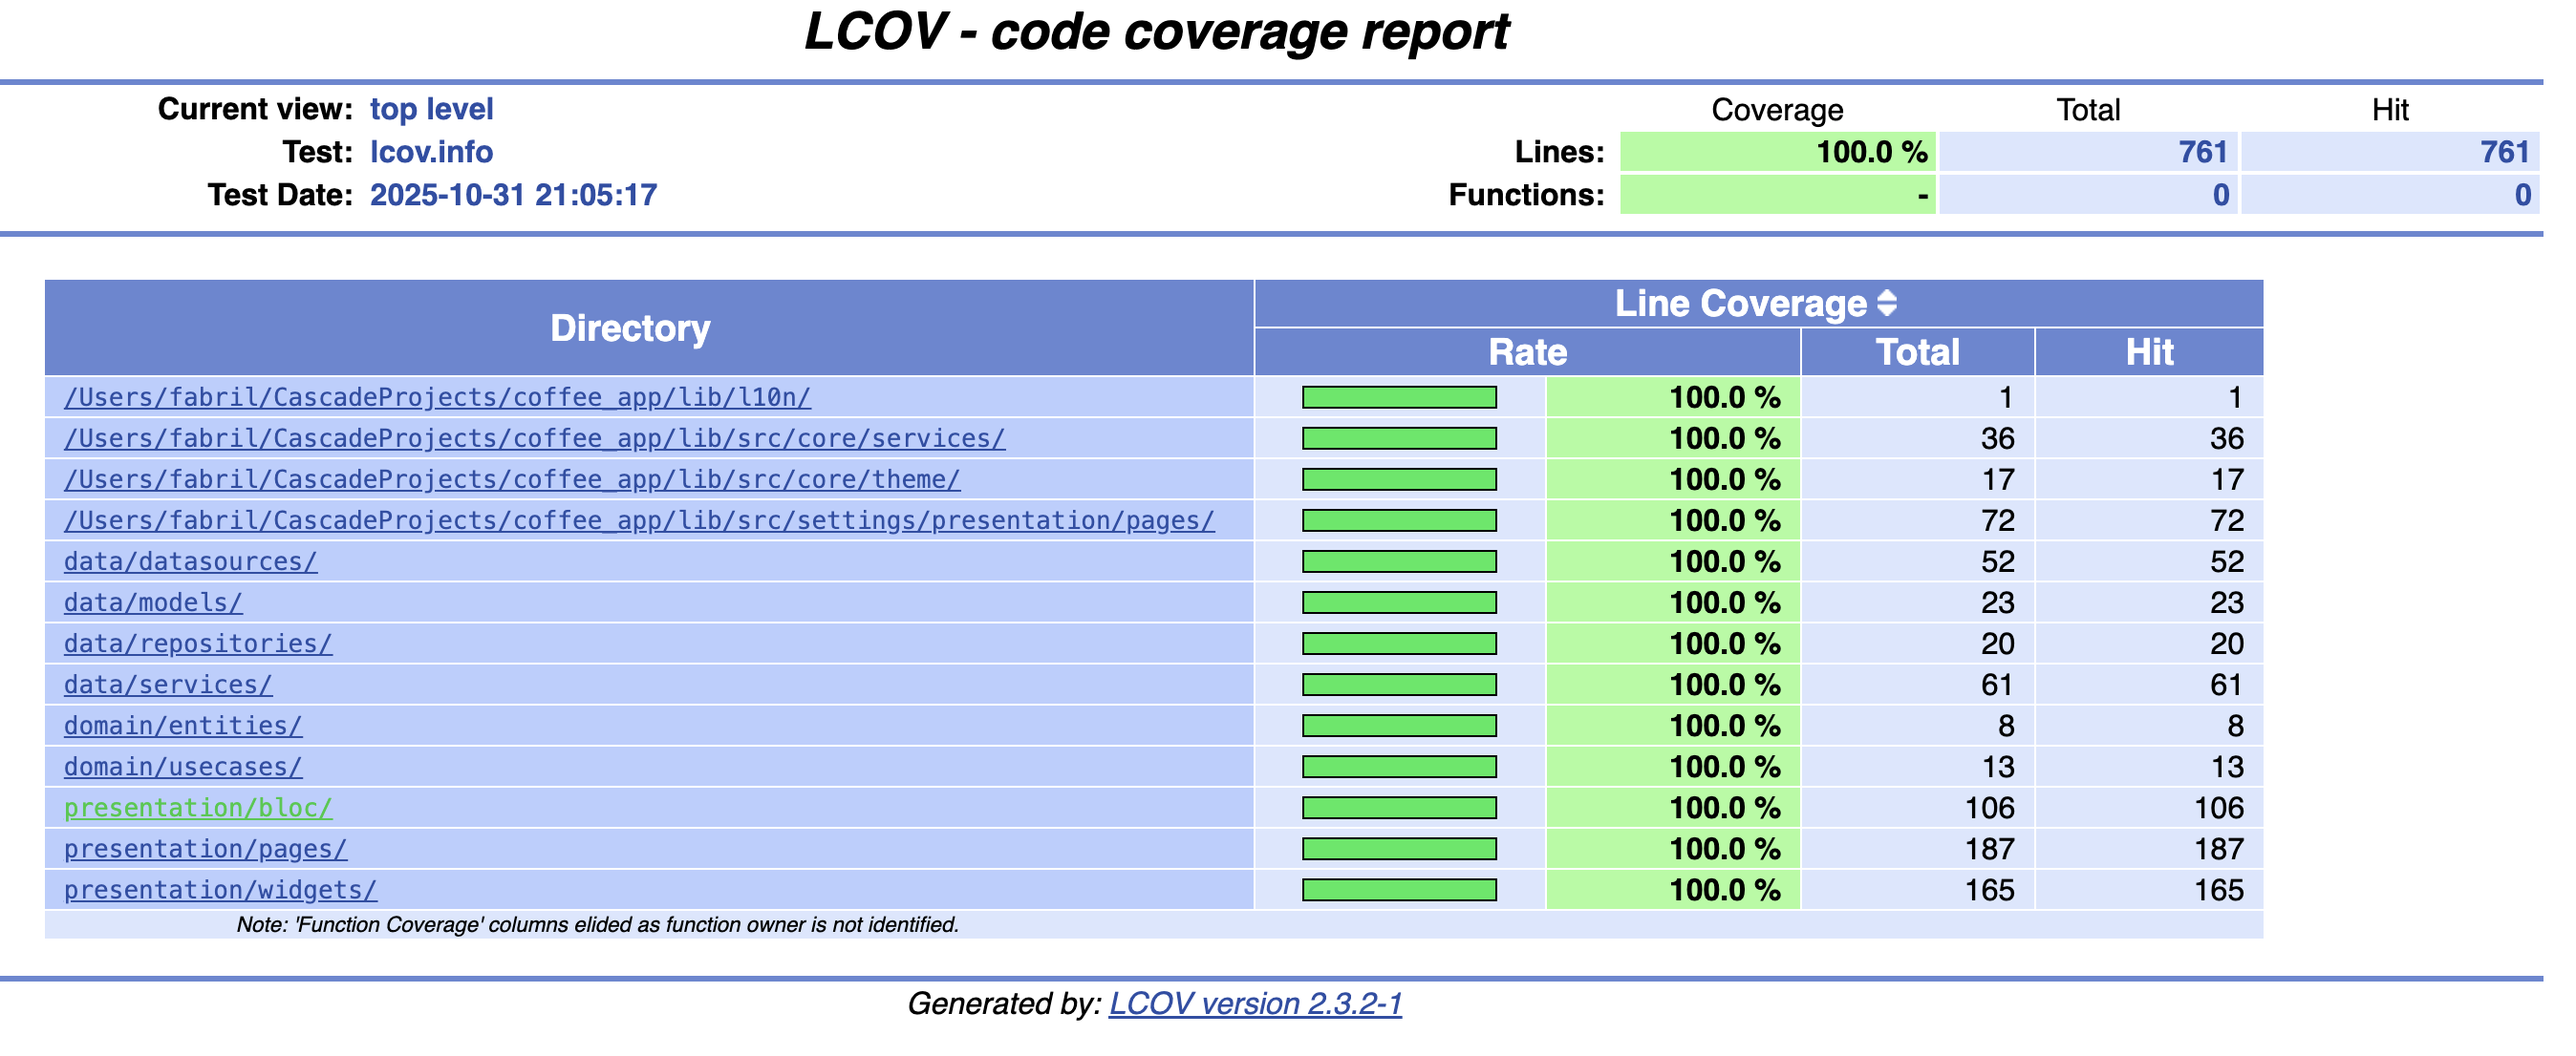
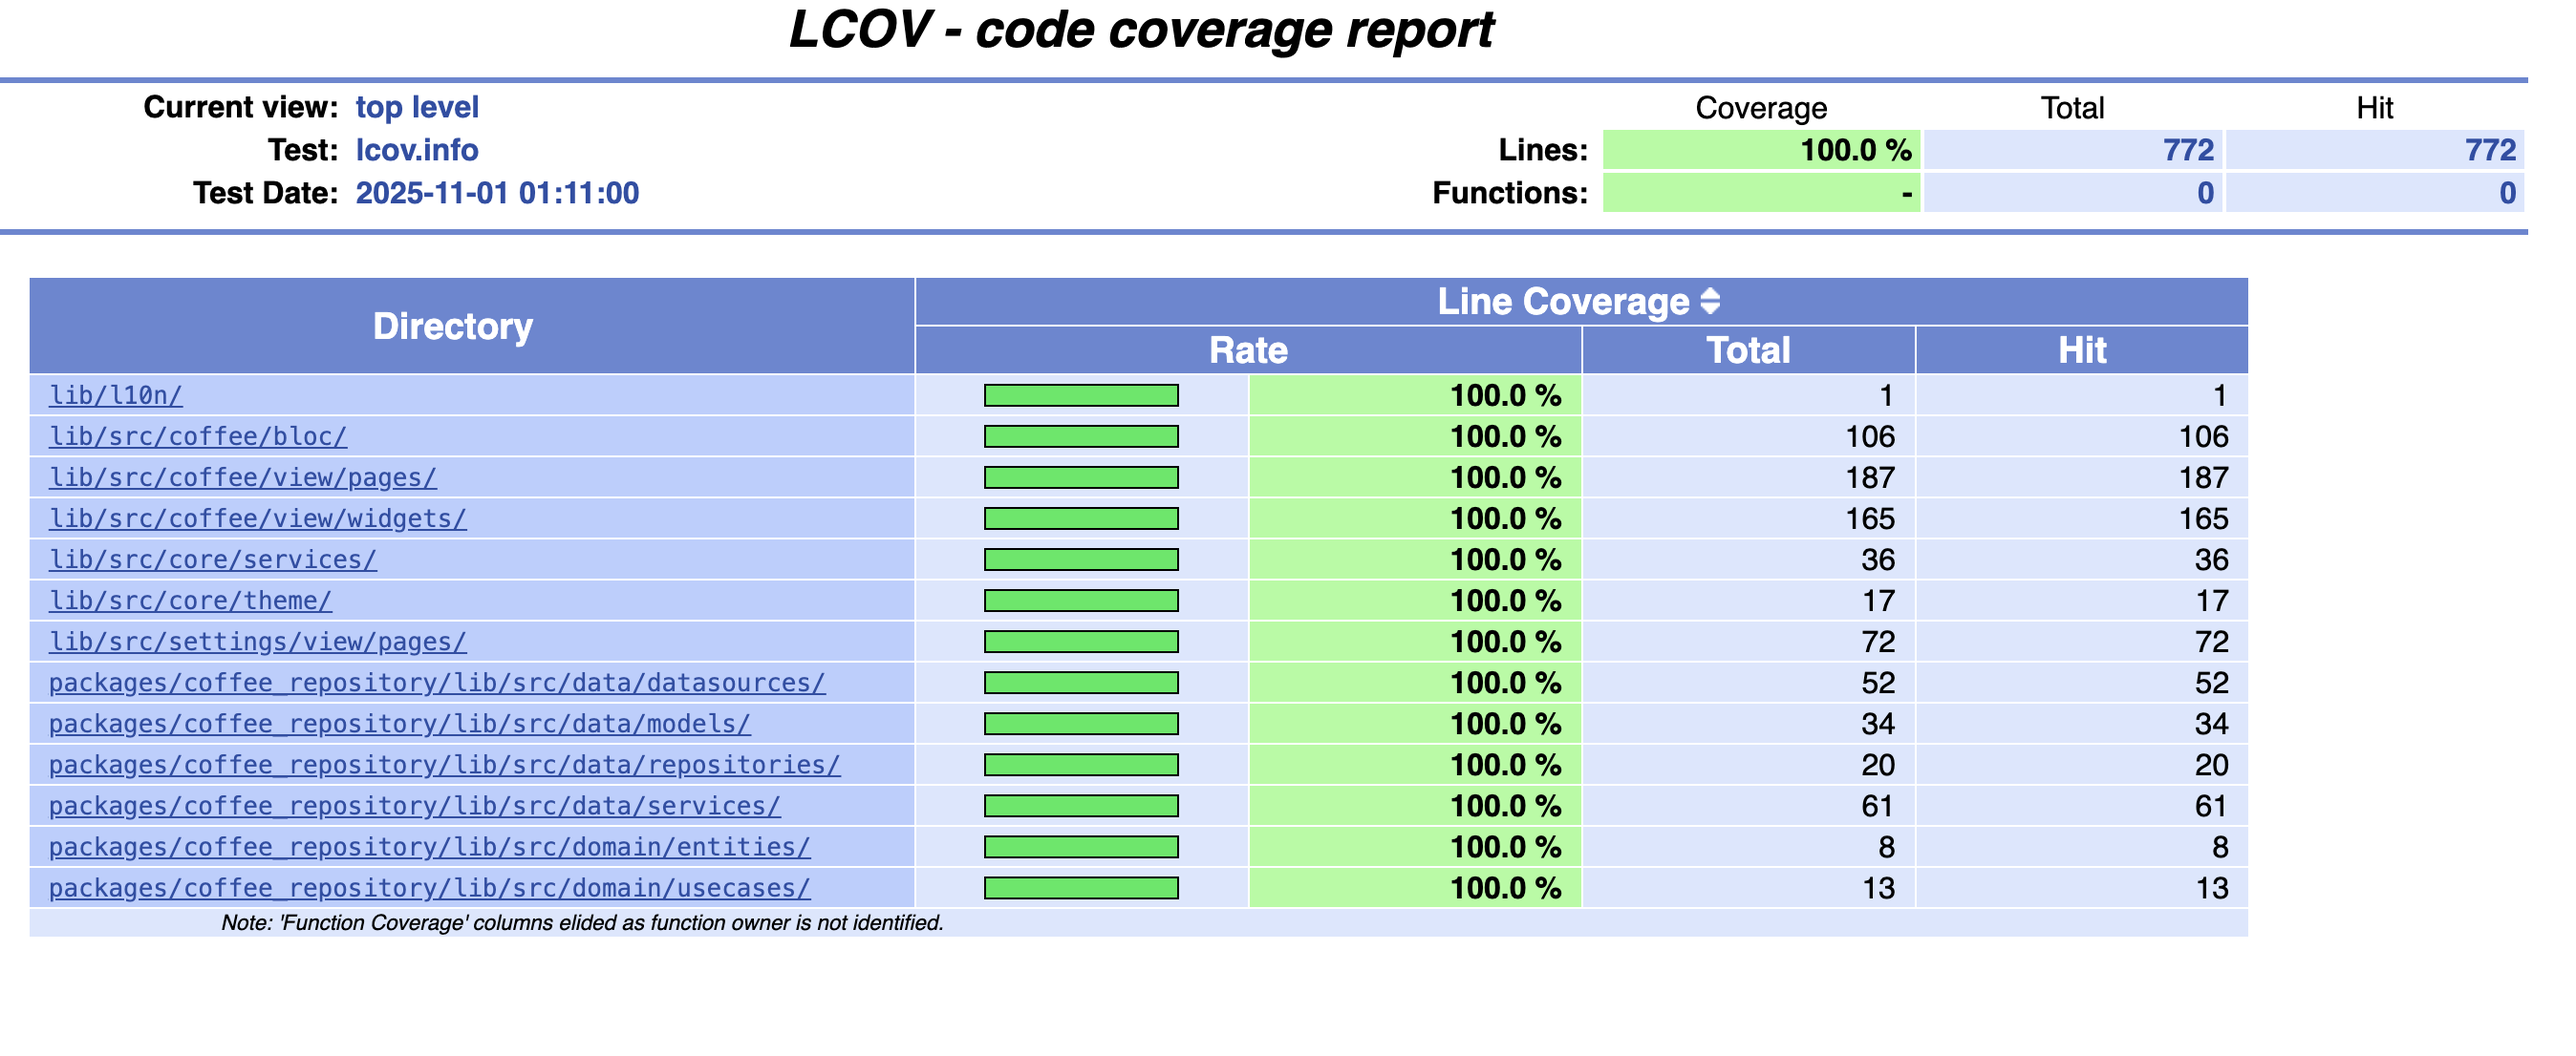
fix: resolve import issues and update test coverage setup
- Fix all package:coffee_repository/src/ imports to use public API
- Fix directive sorting issues across all files (dart analyze passes)
- Add flutter_test to coffee_repository for path_provider tests
- Update README with combined coverage report instructions (772 lines, 100%)
- Remove unnecessary library declaration issue
- Update test structure documentation (249 total tests: 162 app + 87 package)
- All tests passing with 100% coverage

Changed region(s): [[0.0, 0.0, 0.997, 0.8915], [0.0, 0.9222, 0.997, 0.9837]]

diff --git a/test/src/coffee/bloc/coffee_bloc_test.dart b/test/src/coffee/bloc/coffee_bloc_test.dart
@@ -1,13 +1,13 @@
 import 'package:bloc_test/bloc_test.dart';
+import 'package:coffee_app/src/coffee/bloc/coffee_bloc.dart';
+import 'package:coffee_app/src/coffee/bloc/coffee_error_keys.dart';
+import 'package:coffee_app/src/coffee/bloc/coffee_event.dart';
+import 'package:coffee_app/src/coffee/bloc/coffee_state.dart';
 import 'package:coffee_repository/src/data/services/image_cache_service.dart';
 import 'package:coffee_repository/src/domain/entities/coffee.dart';
 import 'package:coffee_repository/src/domain/usecases/get_favorite_coffees.dart';
 import 'package:coffee_repository/src/domain/usecases/get_random_coffee.dart';
 import 'package:coffee_repository/src/domain/usecases/toggle_favorite_coffee.dart';
-import 'package:coffee_app/src/coffee/bloc/coffee_bloc.dart';
-import 'package:coffee_app/src/coffee/bloc/coffee_error_keys.dart';
-import 'package:coffee_app/src/coffee/bloc/coffee_event.dart';
-import 'package:coffee_app/src/coffee/bloc/coffee_state.dart';
 import 'package:flutter_test/flutter_test.dart';
 import 'package:mocktail/mocktail.dart';
 

diff --git a/test/src/coffee/view/pages/coffee_page_test.dart b/test/src/coffee/view/pages/coffee_page_test.dart
@@ -1,13 +1,13 @@
 import 'package:bloc_test/bloc_test.dart';
 import 'package:coffee_app/l10n/generated/app_localizations.dart';
-import 'package:coffee_repository/src/data/models/coffee_model.dart';
-import 'package:coffee_repository/src/domain/entities/coffee.dart';
 import 'package:coffee_app/src/coffee/bloc/coffee_bloc.dart';
 import 'package:coffee_app/src/coffee/bloc/coffee_error_keys.dart';
 import 'package:coffee_app/src/coffee/bloc/coffee_event.dart';
 import 'package:coffee_app/src/coffee/bloc/coffee_state.dart';
 import 'package:coffee_app/src/coffee/view/pages/coffee_page.dart';
 import 'package:coffee_app/src/coffee/view/widgets/coffee_image_widget.dart';
+import 'package:coffee_repository/src/data/models/coffee_model.dart';
+import 'package:coffee_repository/src/domain/entities/coffee.dart';
 import 'package:flutter/material.dart';
 import 'package:flutter_localizations/flutter_localizations.dart';
 import 'package:flutter_test/flutter_test.dart';

diff --git a/lib/src/coffee/view/pages/favorites_page.dart b/lib/src/coffee/view/pages/favorites_page.dart
@@ -2,7 +2,6 @@ import 'dart:async';
 import 'dart:io';
 
 import 'package:coffee_app/l10n/generated/app_localizations.dart';
-import 'package:coffee_repository/src/domain/entities/coffee.dart';
 import 'package:coffee_app/src/coffee/bloc/coffee_bloc.dart';
 import 'package:coffee_app/src/coffee/bloc/coffee_event.dart';
 import 'package:coffee_app/src/coffee/bloc/coffee_state.dart';
@@ -13,6 +12,7 @@ import 'package:coffee_app/src/core/design_system/app_spacing.dart';
 import 'package:coffee_app/src/core/design_system/app_text_styles.dart';
 import 'package:coffee_app/src/core/services/user_feedback_service.dart';
 import 'package:coffee_app/src/core/widgets/full_screen_image_viewer.dart';
+import 'package:coffee_repository/coffee_repository.dart';
 import 'package:flutter/material.dart';
 import 'package:flutter_bloc/flutter_bloc.dart';
 import 'package:get_it/get_it.dart';

diff --git a/lib/src/coffee/view/pages/coffee_page.dart b/lib/src/coffee/view/pages/coffee_page.dart
@@ -1,6 +1,5 @@
 import 'package:coffee_app/l10n/generated/app_localizations.dart';
 import 'package:coffee_app/l10n/l10n.dart';
-import 'package:coffee_repository/src/data/models/coffee_model.dart';
 import 'package:coffee_app/src/coffee/bloc/coffee_bloc.dart';
 import 'package:coffee_app/src/coffee/bloc/coffee_event.dart';
 import 'package:coffee_app/src/coffee/bloc/coffee_state.dart';
@@ -11,6 +10,7 @@ import 'package:coffee_app/src/core/design_system/app_colors.dart';
 import 'package:coffee_app/src/core/design_system/app_spacing.dart';
 import 'package:coffee_app/src/core/design_system/app_text_styles.dart';
 import 'package:coffee_app/src/core/services/user_feedback_service.dart';
+import 'package:coffee_repository/coffee_repository.dart';
 import 'package:flutter/material.dart';
 import 'package:flutter_bloc/flutter_bloc.dart';
 import 'package:get_it/get_it.dart';

diff --git a/packages/coffee_repository/test/data/services/image_cache_service_test.dart b/packages/coffee_repository/test/data/services/image_cache_service_test.dart
@@ -5,7 +5,7 @@ import 'package:coffee_repository/src/data/services/http_client.dart';
 import 'package:coffee_repository/src/data/services/image_cache_service.dart';
 import 'package:coffee_repository/src/data/services/image_cache_service_impl.dart';
 import 'package:coffee_repository/src/data/services/image_processor.dart';
-import 'package:test/test.dart';
+import 'package:flutter_test/flutter_test.dart';
 import 'package:http/http.dart' as http;
 import 'package:mocktail/mocktail.dart';
 
@@ -395,7 +395,7 @@ void main() {
     group('default directory getter', () {
       test('uses default directory when no custom getter provided', () async {
         TestWidgetsFlutterBinding.ensureInitialized();
-
+        
         final defaultService = ImageCacheServiceImpl(
           httpClient: mockHttpClient,
           imageProcessor: mockImageProcessor,

diff --git a/test/src/coffee/view/widgets/favorite_card_test.dart b/test/src/coffee/view/widgets/favorite_card_test.dart
@@ -1,11 +1,11 @@
 import 'package:bloc_test/bloc_test.dart';
 import 'package:coffee_app/l10n/generated/app_localizations.dart';
-import 'package:coffee_repository/src/data/models/coffee_model.dart';
-import 'package:coffee_repository/src/data/services/image_cache_service.dart';
 import 'package:coffee_app/src/coffee/bloc/coffee_bloc.dart';
 import 'package:coffee_app/src/coffee/bloc/coffee_event.dart';
 import 'package:coffee_app/src/coffee/bloc/coffee_state.dart';
 import 'package:coffee_app/src/coffee/view/pages/favorites_page.dart';
+import 'package:coffee_repository/src/data/models/coffee_model.dart';
+import 'package:coffee_repository/src/data/services/image_cache_service.dart';
 import 'package:flutter/material.dart';
 import 'package:flutter_bloc/flutter_bloc.dart';
 import 'package:flutter_localizations/flutter_localizations.dart';

diff --git a/lib/src/coffee/view/widgets/coffee_image_widget.dart b/lib/src/coffee/view/widgets/coffee_image_widget.dart
@@ -2,13 +2,13 @@ import 'dart:async';
 import 'dart:io';
 
 import 'package:coffee_app/l10n/generated/app_localizations.dart';
-import 'package:coffee_repository/src/domain/entities/coffee.dart';
 import 'package:coffee_app/src/coffee/bloc/coffee_bloc.dart';
 import 'package:coffee_app/src/coffee/bloc/coffee_event.dart';
 import 'package:coffee_app/src/core/design_system/app_colors.dart';
 import 'package:coffee_app/src/core/design_system/app_spacing.dart';
 import 'package:coffee_app/src/core/design_system/app_text_styles.dart';
 import 'package:coffee_app/src/core/widgets/full_screen_image_viewer.dart';
+import 'package:coffee_repository/coffee_repository.dart';
 import 'package:flutter/material.dart';
 import 'package:flutter_bloc/flutter_bloc.dart';
 

diff --git a/test/src/coffee/view/pages/favorites_page_test.dart b/test/src/coffee/view/pages/favorites_page_test.dart
@@ -1,11 +1,11 @@
 import 'package:bloc_test/bloc_test.dart';
 import 'package:coffee_app/l10n/generated/app_localizations.dart';
-import 'package:coffee_repository/src/data/models/coffee_model.dart';
 import 'package:coffee_app/src/coffee/bloc/coffee_bloc.dart';
 import 'package:coffee_app/src/coffee/bloc/coffee_error_keys.dart';
 import 'package:coffee_app/src/coffee/bloc/coffee_event.dart';
 import 'package:coffee_app/src/coffee/bloc/coffee_state.dart';
 import 'package:coffee_app/src/coffee/view/pages/favorites_page.dart';
+import 'package:coffee_repository/src/data/models/coffee_model.dart';
 import 'package:flutter/material.dart';
 import 'package:flutter_localizations/flutter_localizations.dart';
 import 'package:flutter_test/flutter_test.dart';

diff --git a/test/app/view/app_test.dart b/test/app/view/app_test.dart
@@ -1,9 +1,9 @@
 import 'package:coffee_app/l10n/generated/app_localizations.dart';
+import 'package:coffee_app/src/coffee/bloc/coffee_bloc.dart';
+import 'package:coffee_app/src/coffee/view/pages/coffee_page.dart';
 import 'package:coffee_repository/src/domain/usecases/get_favorite_coffees.dart';
 import 'package:coffee_repository/src/domain/usecases/get_random_coffee.dart';
 import 'package:coffee_repository/src/domain/usecases/toggle_favorite_coffee.dart';
-import 'package:coffee_app/src/coffee/bloc/coffee_bloc.dart';
-import 'package:coffee_app/src/coffee/view/pages/coffee_page.dart';
 import 'package:flutter/material.dart';
 import 'package:flutter_localizations/flutter_localizations.dart';
 import 'package:flutter_test/flutter_test.dart';

diff --git a/lib/src/coffee/bloc/coffee_bloc.dart b/lib/src/coffee/bloc/coffee_bloc.dart
@@ -1,11 +1,8 @@
 import 'package:bloc/bloc.dart';
-import 'package:coffee_repository/src/domain/entities/coffee.dart';
-import 'package:coffee_repository/src/domain/usecases/get_favorite_coffees.dart';
-import 'package:coffee_repository/src/domain/usecases/get_random_coffee.dart';
-import 'package:coffee_repository/src/domain/usecases/toggle_favorite_coffee.dart';
 import 'package:coffee_app/src/coffee/bloc/coffee_error_keys.dart';
 import 'package:coffee_app/src/coffee/bloc/coffee_event.dart';
 import 'package:coffee_app/src/coffee/bloc/coffee_state.dart';
+import 'package:coffee_repository/coffee_repository.dart';
 
 /// {@template coffee_bloc}
 /// BLoC responsible for managing coffee state.

diff --git a/test/src/coffee/view/widgets/coffee_image_widget_test.dart b/test/src/coffee/view/widgets/coffee_image_widget_test.dart
@@ -1,10 +1,10 @@
 import 'package:bloc_test/bloc_test.dart';
 import 'package:coffee_app/l10n/generated/app_localizations.dart';
-import 'package:coffee_repository/src/domain/entities/coffee.dart';
 import 'package:coffee_app/src/coffee/bloc/coffee_bloc.dart';
 import 'package:coffee_app/src/coffee/bloc/coffee_event.dart';
 import 'package:coffee_app/src/coffee/bloc/coffee_state.dart';
 import 'package:coffee_app/src/coffee/view/widgets/coffee_image_widget.dart';
+import 'package:coffee_repository/src/domain/entities/coffee.dart';
 import 'package:flutter/material.dart';
 import 'package:flutter_bloc/flutter_bloc.dart';
 import 'package:flutter_localizations/flutter_localizations.dart';

diff --git a/test/src/coffee/view/widgets/coffee_favorites_widget_test.dart b/test/src/coffee/view/widgets/coffee_favorites_widget_test.dart
@@ -1,10 +1,10 @@
 import 'package:bloc_test/bloc_test.dart';
-import 'package:coffee_repository/src/domain/entities/coffee.dart';
 import 'package:coffee_app/src/coffee/bloc/coffee_bloc.dart';
 import 'package:coffee_app/src/coffee/bloc/coffee_error_keys.dart';
 import 'package:coffee_app/src/coffee/bloc/coffee_event.dart';
 import 'package:coffee_app/src/coffee/bloc/coffee_state.dart';
 import 'package:coffee_app/src/coffee/view/widgets/coffee_favorites_widget.dart';
+import 'package:coffee_repository/src/domain/entities/coffee.dart';
 import 'package:flutter/material.dart';
 import 'package:flutter_bloc/flutter_bloc.dart';
 import 'package:flutter_test/flutter_test.dart';
